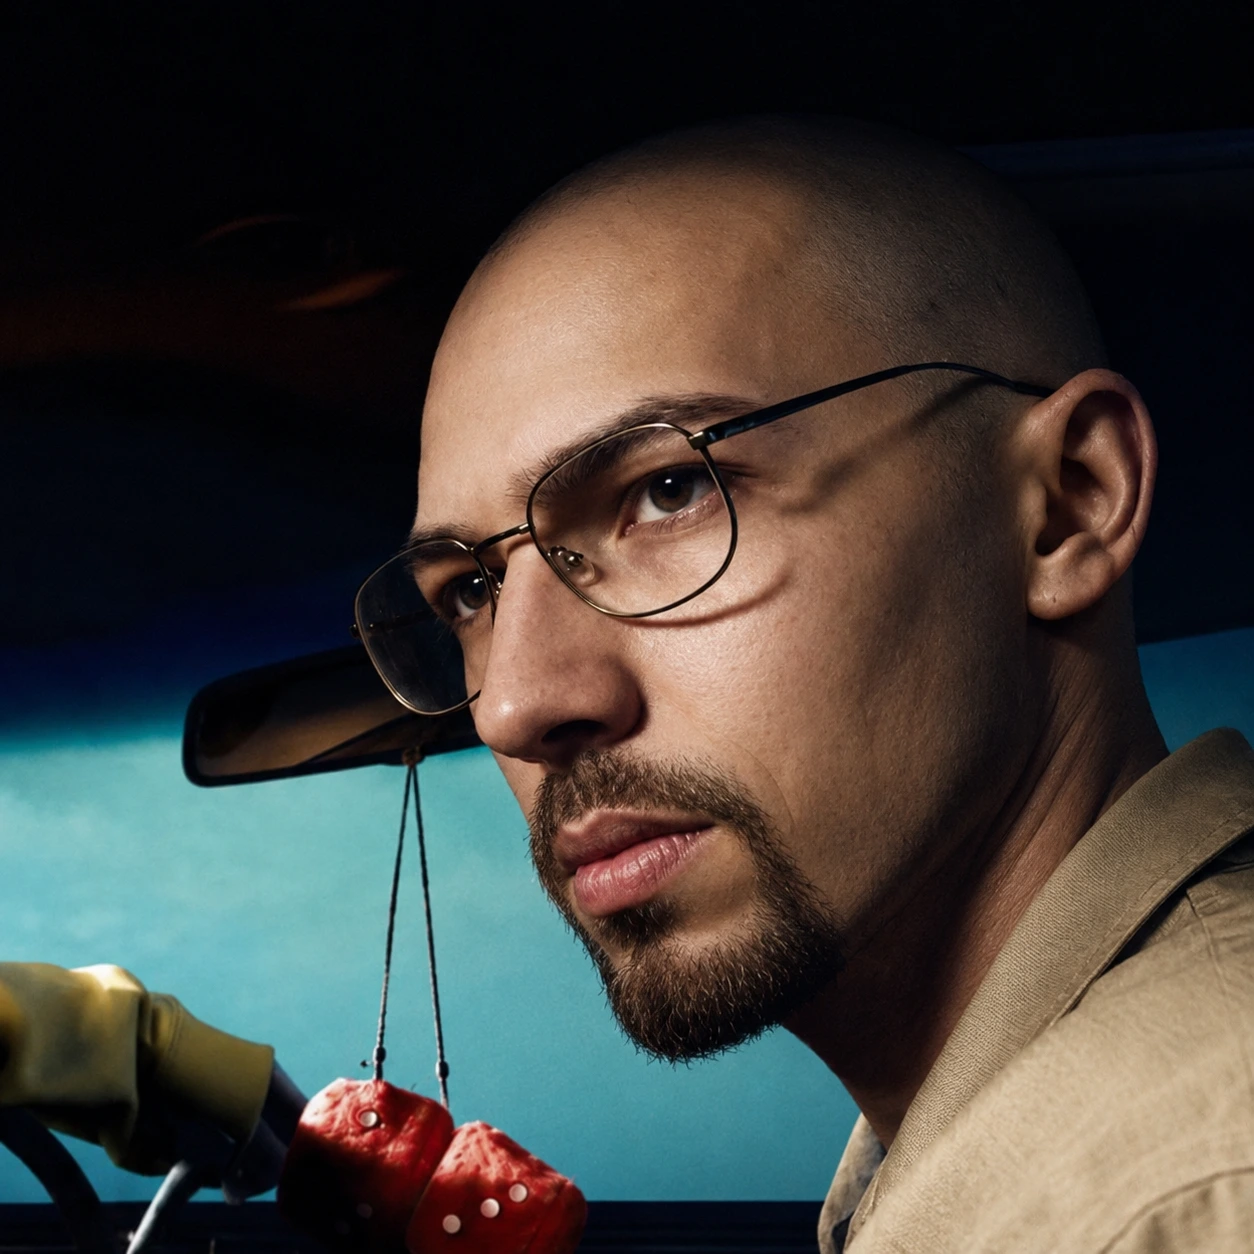
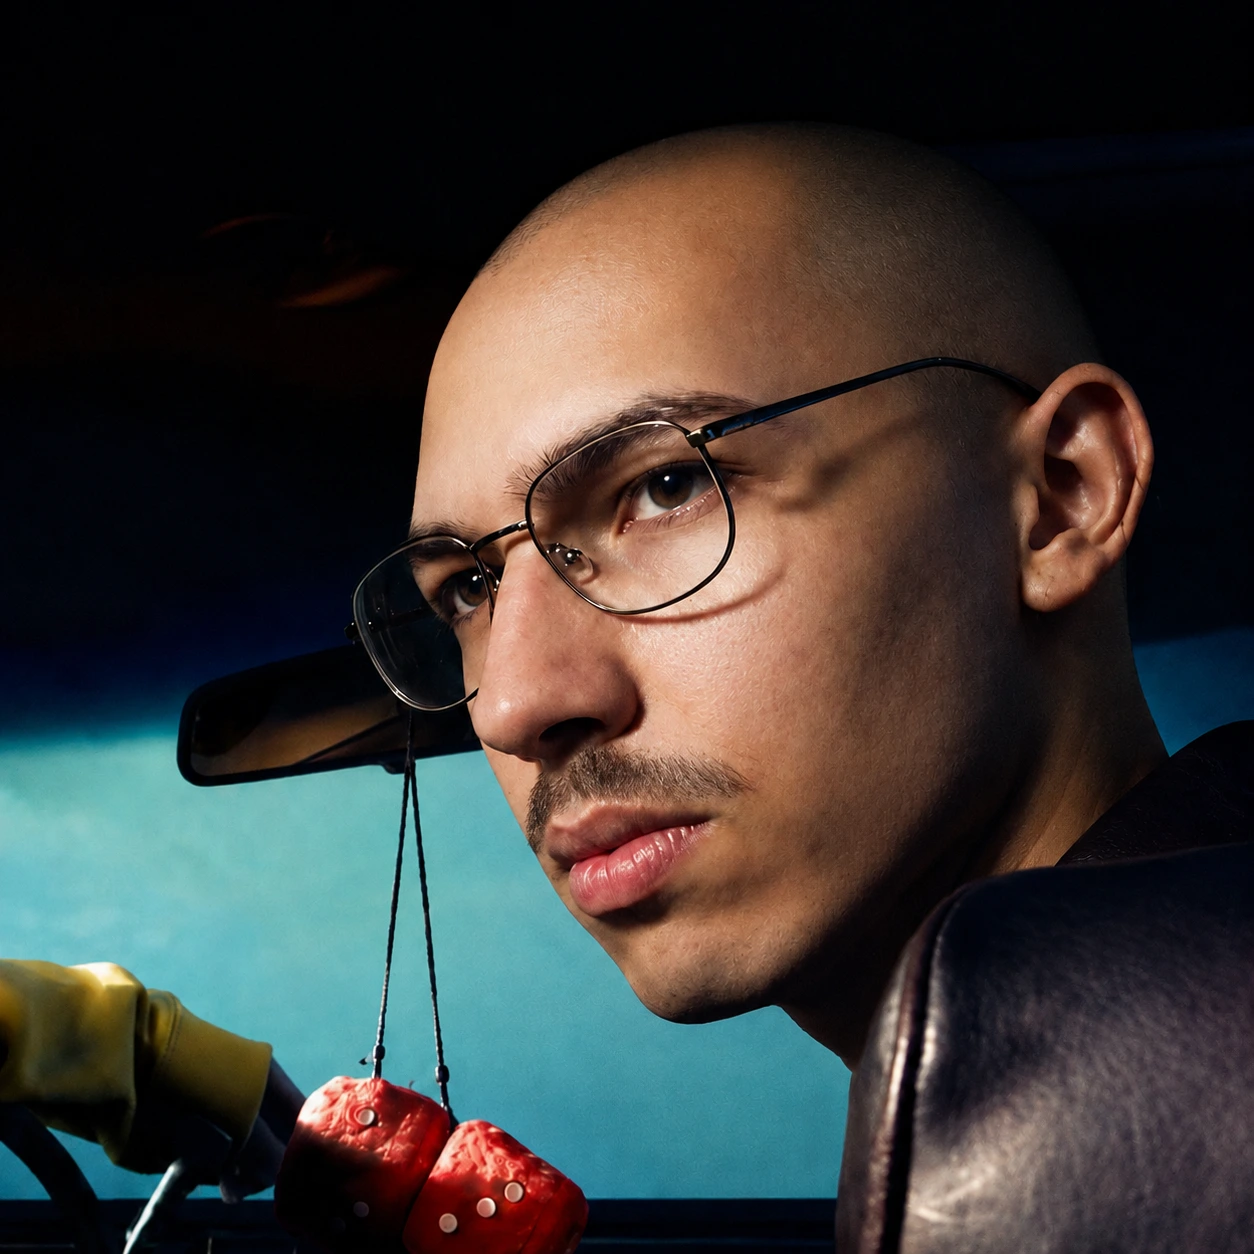
Ajustes em CharacterInfo e CharacterPage

diff --git a/src/components/CharacterInfo.jsx b/src/components/CharacterInfo.jsx
@@ -1,25 +1,42 @@
 function CharacterInfo({ personagem }) {
   return (
-    <div className="dados-pessoais">
-      <p>
-        <strong>NOME COMPLETO:</strong>{" "}
-        {(personagem.full_name || personagem.name).toUpperCase()}
-      </p>
+    <div className="dados-completos">
+      {/* ID */}
+      <div className="criminal-id">
+        ID: #{personagem.id}
+      </div>
 
-      {personagem.isHeisenberg && (
-        <p>
-          <strong>ALCUNHA:</strong> HEISENBERG
-        </p>
-      )}
+      {/* FOTO + DADOS PESSOAIS */}
+      <div className="foto-dados">
+        <div className="foto-area">
+          <img src={personagem.image_url} alt={personagem.name} />
+        </div>
+        <div className="dados-pessoais">
+          <p><strong>NOME COMPLETO:</strong> {(personagem.full_name || personagem.name).toUpperCase()}</p>
+          {personagem.isHeisenberg && <p><strong>ALCUNHA:</strong> HEISENBERG</p>}
+          <p><strong>DATA DE NASCIMENTO:</strong> {personagem.birth_date || "DESCONHECIDA"}</p>
+          <p><strong>INTERPRETADO POR:</strong> {personagem.portrayed}</p>
+        </div>
+      </div>
 
-      <p>
-        <strong>DATA DE NASCIMENTO:</strong>{" "}
-        {personagem.birth_date || "DESCONHECIDA"}
-      </p>
+      {/* OCUPAÇÕES */}
+      <div className="ocupacao-area">
+        <h4>OCUPAÇÕES / CRIMES</h4>
+        <ul className="ocupacao-list">
+          {personagem.occupation?.map((occ, idx) => (
+            <li key={idx}>• {occ}</li>
+          ))}
+        </ul>
+      </div>
 
-      <p>
-        <strong>INTERPRETADO POR:</strong> {personagem.portrayed}
-      </p>
+      {/* APARIÇÕES */}
+      <div className="apareceu-em">
+        <strong>APARIÇÕES:</strong><br />
+        {personagem.appearances?.map((ep, idx) => (
+          <span key={idx}>TEMP {ep}</span>
+        ))}
+        <p><strong>TOTAL DE EPISÓDIOS:</strong> {personagem.episodes_count}</p>
+      </div>
     </div>
   );
 }

diff --git a/src/pages/CharacterPage.jsx b/src/pages/CharacterPage.jsx
@@ -31,41 +31,12 @@ function CharacterPage() {
   return (
     <div className="criminal-container">
       <Link to="/" className="back-button">← VOLTAR</Link>
-
       <div className="ficha-criminal">
         <div className="header-ficha">
           <h1>DEPARTAMENTO DE JUSTIÇA</h1>
           <h3>REGISTRO CRIMINAL / CONDENADO</h3>
         </div>
-        
-        <div className="criminal-id">
-          ID: #{personagem.id}
-        </div>
-
-        <div className="foto-dados">
-          <div className="foto-area">
-            <img src={personagem.image_url} alt={personagem.name} />
-          </div>
-          <CharacterInfo personagem={personagem} />
-        </div>
-
-        <div className="ocupacao-area">
-          <h4>OCUPAÇÕES / CRIMES</h4>
-          <ul className="ocupacao-list">
-            {personagem.occupation?.map((occ, idx) => (
-              <li key={idx}>• {occ}</li>
-            ))}
-          </ul>
-        </div>
-
-        <div className="apareceu-em">
-          <strong>APARIÇÕES:</strong><br />
-          {personagem.appearances?.map((ep, idx) => (
-            <span key={idx}>TEMP {ep}</span>
-          ))}
-          <p><strong>TOTAL DE EPISÓDIOS:</strong> {personagem.episodes_count}</p>
-        </div>
-
+        <CharacterInfo personagem={personagem} />
         <div className="footer-ficha">
           ESTE DOCUMENTO É CONFIDENCIAL.
         </div>

diff --git a/src/pages/HomePage-CharacterPage.css b/src/pages/HomePage-CharacterPage.css
@@ -1,8 +1,3 @@
-/* ============================================
-   SHARED.CSS - Breaking Bad Theme
-   Usado por HomePage e CharacterPage
-   ============================================ */
-
 /* --- CONTAINER PRINCIPAL --- */
 .criminal-container {
   max-width: 800px;
@@ -13,7 +8,7 @@
   min-height: 100vh;
 }
 
-/* --- BOTÃO VOLTAR --- */
+/* --- BTN VOLTAR --- */
 .back-button {
   display: inline-block;
   margin-bottom: 1.5rem;
@@ -50,7 +45,7 @@
   display: inline-block;
 }
 
-/* --- GRID DE CARDS --- */
+/* --- CONJUNTO DE CARDS --- */
 .cards-grid {
   display: grid;
   grid-template-columns: repeat(auto-fill, minmax(200px, 1fr));
@@ -103,7 +98,7 @@
   margin-bottom: 1.5rem;
 }
 
-/* --- FOTO + DADOS --- */
+/* --- FOTOS E DADOS --- */
 .foto-dados {
   display: flex;
   gap: 2rem;
@@ -181,7 +176,7 @@
   margin: 0.2rem;
 }
 
-/* --- RODAPÉ DA FICHA --- */
+/* --- RODAPÉ --- */
 .footer-ficha {
   margin-top: 1.5rem;
   padding-top: 1rem;

diff --git a/src/services/api.js b/src/services/api.js
@@ -2,7 +2,7 @@ import { mapCharacter, mapEpisode, mapQuote, mapDeath } from './mappers';
 
 const BASE_URL = '/api-proxy/api/breaking-bad';
 
-// Busca TODOS os personagens (1 a 56)
+// Busca todos os personagens (1 a 56)
 export const fetchAllCharacters = async () => {
   const promises = [];
   for (let i = 1; i <= 56; i++) {
@@ -10,10 +10,11 @@ export const fetchAllCharacters = async () => {
   }
   const results = await Promise.all(promises);
   return results
-    .filter(item => item.success) // remove falhas
+    .filter(item => item.success) // remove falhados
     .map(item => mapCharacter(item.data));
 };
 
+//Busca um personagem específico
 export const fetchCharacter = async (id) => {
   const response = await fetch(`${BASE_URL}/characters/${id}`);
   const data = await response.json();

diff --git a/src/pages/HomePage.jsx b/src/pages/HomePage.jsx
@@ -13,6 +13,7 @@ function HomePage() {
   const [error, setError] = useState(null);
   const [filtro, setFiltro] = useState('');
 
+  // chamado qnd o componente é montado ou quando location.key muda
   useEffect(() => {
     const carregarTodos = async () => {
       setLoading(true);
@@ -29,6 +30,7 @@ function HomePage() {
     carregarTodos();
   }, [location.key]); 
 
+  //chamado qnd filtro ou personagens mudam
   useEffect(() => {
     const filtrados = personagens.filter(p => {
       const termo = filtro.toLowerCase().trim();

diff --git a/src/components/SearchBar.css b/src/components/SearchBar.css
@@ -1,6 +1,6 @@
 .search-bar {
   width: 100%;
-  padding: 0.75rem;
+  padding: 0.75rem,0.75rem;
   background: #1a1a1a;
   border: 1px solid #7b8a3b;
   color: #e8c84a;
